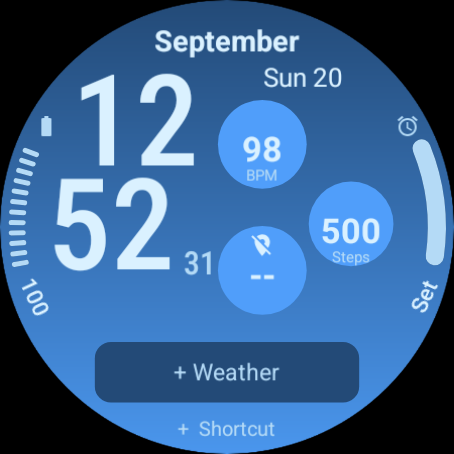
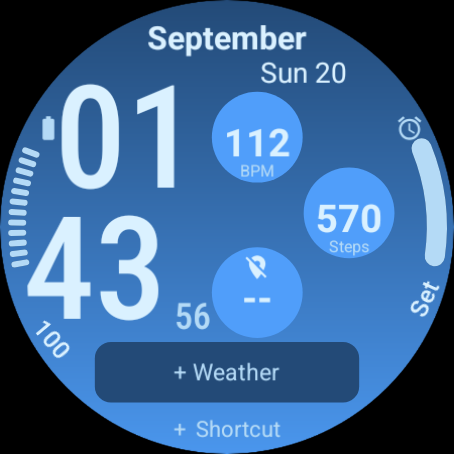
Record larger-layout emulator evidence and remaining forecast limitation [skip ci]

diff --git a/docs/VALIDATION.md b/docs/VALIDATION.md
@@ -1,6 +1,6 @@
 # Validation evidence
 
-Version 0.1.3, 2026-09-19. Resource-only WFF 2; Temurin JDK 17, Gradle 8.13, AGP 8.13.2, Android platform/build-tools 35.
+Version 0.1.4, 2026-09-19. Resource-only WFF 2; Temurin JDK 17, Gradle 8.13, AGP 8.13.2, Android platform/build-tools 35.
 
 ## Local checks
 
@@ -13,15 +13,15 @@ Version 0.1.3, 2026-09-19. Resource-only WFF 2; Temurin JDK 17, Gradle 8.13, AGP
 | Package resources and absence of DEX | Pass |
 | Official APK/AAB memory evaluator | Pass: active 2,371,712 bytes; ambient 3,181,712 bytes |
 
-Regression coverage includes all seven named slots and renderers, non-overlapping editor/runtime touch rectangles, bounded rendering parts, complete rotated edge labels and gauge clearance, separated minutes/seconds, time/circle clearance, device time-format synchronization, and time/date-only ambient visibility. The weather-slot contract rejects any hard-coded app launch or native forecast data: the selected complication provider owns its data and tap action. It also checks short/long text, images and progress support. There are no longer any forecast rollover expressions to test.
+Regression coverage includes all seven named slots and renderers, non-overlapping editor bounds and runtime slot rectangles, bounded rendering parts, complete rotated edge labels and gauge clearance, separated minutes/seconds, time/circle clearance, device time-format synchronization, and time/date-only ambient visibility. The weather-slot contract rejects any hard-coded app launch or native forecast data: the selected complication provider owns its data and tap action. It also checks short/long text, images and progress support. There are no longer any forecast rollover expressions to test.
 
-The layout retains the previous stacked time and three staggered circles. Hours/minutes increase from 120 to 126 units; readings of up to three characters increase from 32 to 34. Four-character values use 30, five use 26, and longer text uses 20 to avoid truncating step counts. The separate current-weather/forecast buttons are replaced by slot 7, a 262 × 60 area below the main readings. Slot IDs 1–6 are preserved. Weather starts empty because WFF has no portable system WEATHER provider; choose an installed source in Customize. Image providers may use the area for a chart, but the face does not generate chart history.
+The layout retains the previous stacked time and three staggered circles. Hours/minutes increase from 126 to 142 units, seconds from 32 to 36, and the three circles to 90 units. Readings of up to three characters increase to 38; four- and five-character values use 30, and longer text uses 22. Month/date, edge readings, gauge strokes and the bottom shortcut are also larger. The left battery caption moves lower to clear the wider minutes. Slot 7 remains exactly 262 × 60 below the main readings, as requested. Slot IDs 1–6 are preserved. Weather starts empty because WFF has no portable system WEATHER provider; choose an installed source in Customize. Image providers may use the area for a chart, but the face does not generate chart history. The basic Weather card still does not reproduce Samsung Info Brick’s hourly forecast; [provider investigation](SAMSUNG_WEATHER.md) records the physical-watch diagnostics and inspection of the supplied Weather and Info Brick APKs. Info Brick draws its hourly panel from a Samsung content-provider model; the public Weather complication sends current conditions only.
 
 Lint advisories include available dependency updates, resource references inside raw WFF that lint cannot trace, and backup metadata for a code-free package. Resource shrinking remains disabled. `validation/package-checksums.json` identifies local deliverables; CI APK checksums differ because its debug signing keys are temporary.
 
 ## Native emulator evidence
 
-[GitHub run 35479553609](https://github.com/DylanMc25/ultrawatchfaceedits/actions/runs/35479553609), source commit `1fa08cf`, passed the build job and both emulator jobs. Captures were downloaded and visually reviewed.
+[GitHub run 35481758095](https://github.com/DylanMc25/ultrawatchfaceedits/actions/runs/35481758095), source commit `eea5ffb`, passed the build job and both emulator jobs. Captures were downloaded and visually reviewed.
 
 | Check | API 34, 454 × 454 | API 35-ext15, 384 × 384 |
 | --- | --- | --- |
@@ -30,14 +30,19 @@ Lint advisories include available dependency updates, resource references inside
 | Native editor: all seven provider choosers | Pass | Pass |
 | Weather-area reassignment to Alarm | Pass | Pass |
 | Assigned weather-area tap dispatches slot 7 | Pass | Pass |
+| Circle-boundary taps between neighboring slots | Pass | Pass |
 | Wrong complication dispatch | None | None |
 | Angled battery and assigned right-edge text | Visible | Visible |
 | Black time/date-only ambient, display state | DOZE | DOZE |
-| Ambient lit pixels, including overlays | 2.9106% | 4.2308% |
+| Ambient lit pixels, including overlays | 3.3819% | 5.0986% |
 
-The native editor's four-digit step count is shown in full with the compact numeric size. The empty weather panel renders within its bounds on both sizes; the assigned Alarm panel renders correctly on API 35 and in both native editors. The final API 34 post-editor active capture shows a partial background redraw (lower background/slot surface missing), although slot text remains visible and its tap opens the Alarm time picker. The initial API 34 active and editor captures are clean, and the preceding run `35479085523` rendered the same slot/background correctly. The cause is unresolved; do not treat the passing interaction job as proof of artifact-free rendering after every provider change. Reproduce on Galaxy Watch and investigate if it persists. API 35's system unread-status overlay covers part of the bottom shortcut; this is still a physical-device review item.
+The native editor's four-digit step count is shown in full with the compact numeric size. Larger stacked digits, seconds, circle readings and angled captions were visually reviewed on both display sizes. The empty weather panel and the assigned Alarm panel both render within their bounds. The earlier API 34 partial-background redraw anomaly was not reproduced in this run: active and assigned-provider backgrounds render fully. Its cause remains unknown, so retain a physical-device regression check. API 35's system status overlays cover part of the bottom shortcut; this is still a physical-device review item.
 
-Steps, sunrise/sunset, battery and the assigned weather slot dispatch to IDs 2, 3, 4 and 7 respectively. Battery opens native Battery settings. The emulator's heart-rate placeholder emits no tap launch; real health/app destinations remain unverified.
+Steps, sunrise/sunset, battery and the assigned weather slot dispatch to IDs 2, 3, 4 and 7 respectively. Battery opens native Battery settings. The emulator's heart-rate provider emits no tap launch at its center or boundary; these probes establish no wrong-slot dispatch, not a successful heart-rate app launch. Real health/app destinations remain unverified.
+
+The intermediate corrected-layout run `35481411856` stopped at an outdated screenshot smoke check: its old sample positions were covered by the enlarged circle and weather panel. Both captured active faces rendered correctly. The smoke check now samples exposed background and was checked against those active images and an ambient image (which it correctly rejects).
+
+A preliminary enlarged layout (`6759277`, [run 35480895592](https://github.com/DylanMc25/ultrawatchfaceedits/actions/runs/35480895592)) exposed a native hit-testing issue: API 35 routed taps from the upper circle to slot 2 and from the middle circle to slot 3 where the slot rectangles overlapped. The visible ovals were separate. The corrected layout keeps the enclosing rectangles separate too; circle-boundary probes remain in the native test. This is why geometric oval separation alone is not accepted as validation.
 
 The local host lacks `/dev/kvm`; software-emulated Android startup previously hit system-server watchdog failures. Native evidence therefore comes from hardware-accelerated GitHub emulators, not the illustrative renderer.
 

diff --git a/README.md b/README.md
@@ -10,15 +10,15 @@ A resource-only Galaxy Watch / Wear OS face with a blue gradient, large stacked 
 
 ## Layout
 
-- Month and day/date above larger stacked hours/minutes (126-unit type); seconds have a separate column.
-- The familiar three staggered circles on the right: heart rate, steps and sunrise/sunset. Slightly larger short readings use 34-unit type.
+- Month and day/date above larger stacked hours/minutes (142-unit type); seconds have a separate column.
+- The familiar three staggered circles on the right: heart rate, steps and sunrise/sunset. Larger 90-unit circles use up to 38-unit type, with smaller sizes for longer readings.
 - Segmented left battery gauge, thick right-edge arc, provider icons and angled edge labels. Right edge and bottom shortcut start unassigned.
 - One compact weather complication below the main readings replaces the current/forecast grid. It supports provider text, icons, images/charts and progress, with a single provider-owned tap action. It starts unassigned.
 - Black always-on display with thin time and date; all other content is hidden.
 
 Long-press the face and choose **Customize** to assign each slot. Providers available on a particular watch determine which data/apps can be selected. Samsung activity, stress, media and Gemini are not bundled or guaranteed providers. A `+` marks an unassigned area; assign it through the editor. Weather and health readings are never hard-coded; unavailable readings remain empty or show a dash. Time follows the device’s 12/24-hour preference. The chosen weather provider owns its readings, units, refreshes and tap destination.
 
-To set up weather: **long-press the face → Customize → Weather → select your installed Weather provider**. You can select another compatible provider in the same slot; charts require a provider that supplies an image. The `+ Weather` panel is a native editable complication, not an app shortcut. Detailed forecasts belong in the provider’s app; this face no longer draws separate forecast buttons. If Weather is not listed, check that the watch has a compatible complication provider installed. The stock emulator has no Samsung Weather provider, so its interaction test uses Alarm as a substitute and does not verify Samsung Weather itself.
+To set up weather: **long-press the face → Customize → Weather → select your installed Weather provider**. You can select another compatible provider in the same slot; charts require a provider that supplies an image. The `+ Weather` panel is a native editable complication, not an app shortcut. The rich hourly forecast shown by Samsung Info Brick is still under investigation; the current basic Weather card does not yet match it. See [Samsung Weather findings](docs/SAMSUNG_WEATHER.md). This face does not draw separate forecast buttons. If Weather is not listed, check that the watch has a compatible complication provider installed. The stock emulator has no Samsung Weather provider, so its interaction test uses Alarm as a substitute and does not verify Samsung Weather itself.
 
 Existing slot IDs 1–6 are unchanged; Weather adds slot 7. Weather has no portable system-provider default in [WFF 2’s provider policy](https://developer.android.com/reference/wear-os/wff/complication/default-provider-policy?version=2), so the face deliberately asks you to select your installed provider once.
 

diff --git a/docs/PULL_REQUEST.md b/docs/PULL_REQUEST.md
@@ -1,12 +1,12 @@
 # Build blue stacked-time watch face with seven editable complications
 
-Replaces the placeholder face with a blue gradient, large stacked time, three staggered circular complications, edge indicators and a bottom shortcut. A compact interchangeable weather slot replaces the separate current-weather/forecast grid. It accepts provider text, icons, images/charts and progress, and delegates taps to the selected provider. Heart rate, steps, sunrise/sunset and battery are default sources; weather, right edge and bottom shortcut start unassigned. Modest type increases keep the familiar layout. Black always-on mode retains thin time and date only.
+Replaces the placeholder face with a blue gradient, large stacked time, three staggered circular complications, edge indicators and a bottom shortcut. A compact interchangeable weather slot replaces the separate current-weather/forecast grid. It accepts provider text, icons, images/charts and progress, and delegates taps to the selected provider. Heart rate, steps, sunrise/sunset and battery are default sources; weather, right edge and bottom shortcut start unassigned. Larger time, round complications and edge readings fill the familiar layout; the weather rectangle stays the same size. Black always-on mode retains thin time and date only.
 
 ![Native active face](previews/emulator-api34-active.png)
 ![Native always-on face](previews/emulator-api35-ambient.png)
 
 Preserves resource-only WFF 2 packaging and stable slot IDs 1–6; adds slot 7. Restores the pinned Gradle wrapper and produces a debug APK and unsigned release AAB with no DEX. Adds GitHub build/schema/memory/lint checks, geometry regressions and two round Wear OS emulator jobs. Includes setup, installation and release documentation.
 
-Validation: ten regression checks, official WFF syntax/resource and memory checks, builds and lint pass. Native capture provenance, individual chooser results, tap evidence and measured ambient illumination are recorded in [validation evidence](VALIDATION.md). An API 34 post-editor capture has a partial background redraw anomaly; initial active/editor captures and API 35 are clean. The cause is unresolved and recorded for reproduction. Samsung Weather and image/chart providers remain physical-device checks; the stock emulator tests the new slot with Alarm instead.
+Validation: ten regression checks, official WFF syntax/resource and memory checks, builds and lint pass. Native capture provenance, individual chooser results, tap evidence and measured ambient illumination are recorded in [validation evidence](VALIDATION.md). The latest API 34/35 captures render fully; a previous API 34 partial-background redraw was not reproduced and remains a physical-device regression check. Native probes verify taps near neighboring circle edges. API 35 system status overlays can cover the bottom shortcut. Info Brick’s rich Weather presentation remains unresolved; the current basic weather card does not yet fulfill it. Samsung Weather and image/chart providers remain physical-device checks; the stock emulator tests the new slot with Alarm instead.
 
 This is a development milestone. Physical Galaxy Watch verification, permanent branding/package identity, release signing and Play Store preparation remain required before sale.

diff --git a/docs/RELEASE.md b/docs/RELEASE.md
@@ -3,9 +3,10 @@
 This repository produces a development build, not a signed production submission.
 
 - Choose the permanent application ID, publisher identity, store name and versioning; remove `com.example` before first publication.
-- Reproduce/investigate the API 34 post-editor partial-background redraw captured in the latest validation run; confirm stable repainting after provider changes and minute transitions on Galaxy Watch.
+- Reproduce/investigate the API 34 post-editor partial-background redraw captured in the previous validation run (not reproduced in the latest run); confirm stable repainting after provider changes and minute transitions on Galaxy Watch.
 - Test on physical Galaxy Watch hardware, including a smaller round model: readable digits, every tap area, complication editor, health consent, provider launch actions, weather/location setup, and background/always-on transitions.
 - Exercise real providers for short text (with and without icons/titles), images, ranged values, goals exceeded, and weighted elements. Check unavailable/no-permission and empty states. Samsung-specific data availability must be verified on-device.
+- Resolve the requested Info Brick-style rich Weather presentation; see [current evidence](SAMSUNG_WEATHER.md). The basic text card is not equivalent.
 - Select Samsung Weather in the new Weather slot on each supported Galaxy Watch firmware. Verify live short/long text, optional icons/titles, missing-data states and the provider-owned tap destination. Test other providers and the empty state.
 - Confirm weather units follow the selected provider's settings, and that time follows device time-zone, daylight-saving and 12/24-hour settings. This face no longer computes its own forecasts.
 - Inspect long localized month/day strings, temperature extremes, large step counts, 12/24-hour time, and settings persistence after updates.

diff --git a/docs/previews/README.md b/docs/previews/README.md
@@ -9,7 +9,7 @@
 
 The `*-editor.png` images show the real Wear OS editor and its **system sample time/health readings**. All seven outlined areas must independently open their provider chooser. `*-shortcut-picker.png` shows the bottom shortcut chooser; `*-weather-picker.png` shows the new interchangeable weather slot. Battery action captures record the native Battery settings page.
 
-`*-edge-alarm.png` assigns Alarm to the right edge on disposable emulators to verify the angled “Set” label. `*-weather-assigned.png` assigns Alarm to the weather slot to verify it accepts another provider. These assignments are test fixtures; the APK leaves both slots unassigned. Samsung Weather and third-party chart providers require physical-watch checks. The final API 34 assigned-provider active capture has a partial background redraw anomaly after leaving the editor; it is preserved unmodified and described in the validation report.
+`*-edge-alarm.png` assigns Alarm to the right edge on disposable emulators to verify the angled “Set” label. `*-weather-assigned.png` assigns Alarm to the weather slot to verify it accepts another provider. These assignments are test fixtures; the APK leaves both slots unassigned. Samsung Weather and third-party chart providers require physical-watch checks. The prior API 34 partial-background redraw anomaly was not reproduced in the latest run. API 35 system status overlays can cover the bottom shortcut. Both limitations remain in the validation report.
 
 ![Native editor](emulator-api34-editor.png)
 
